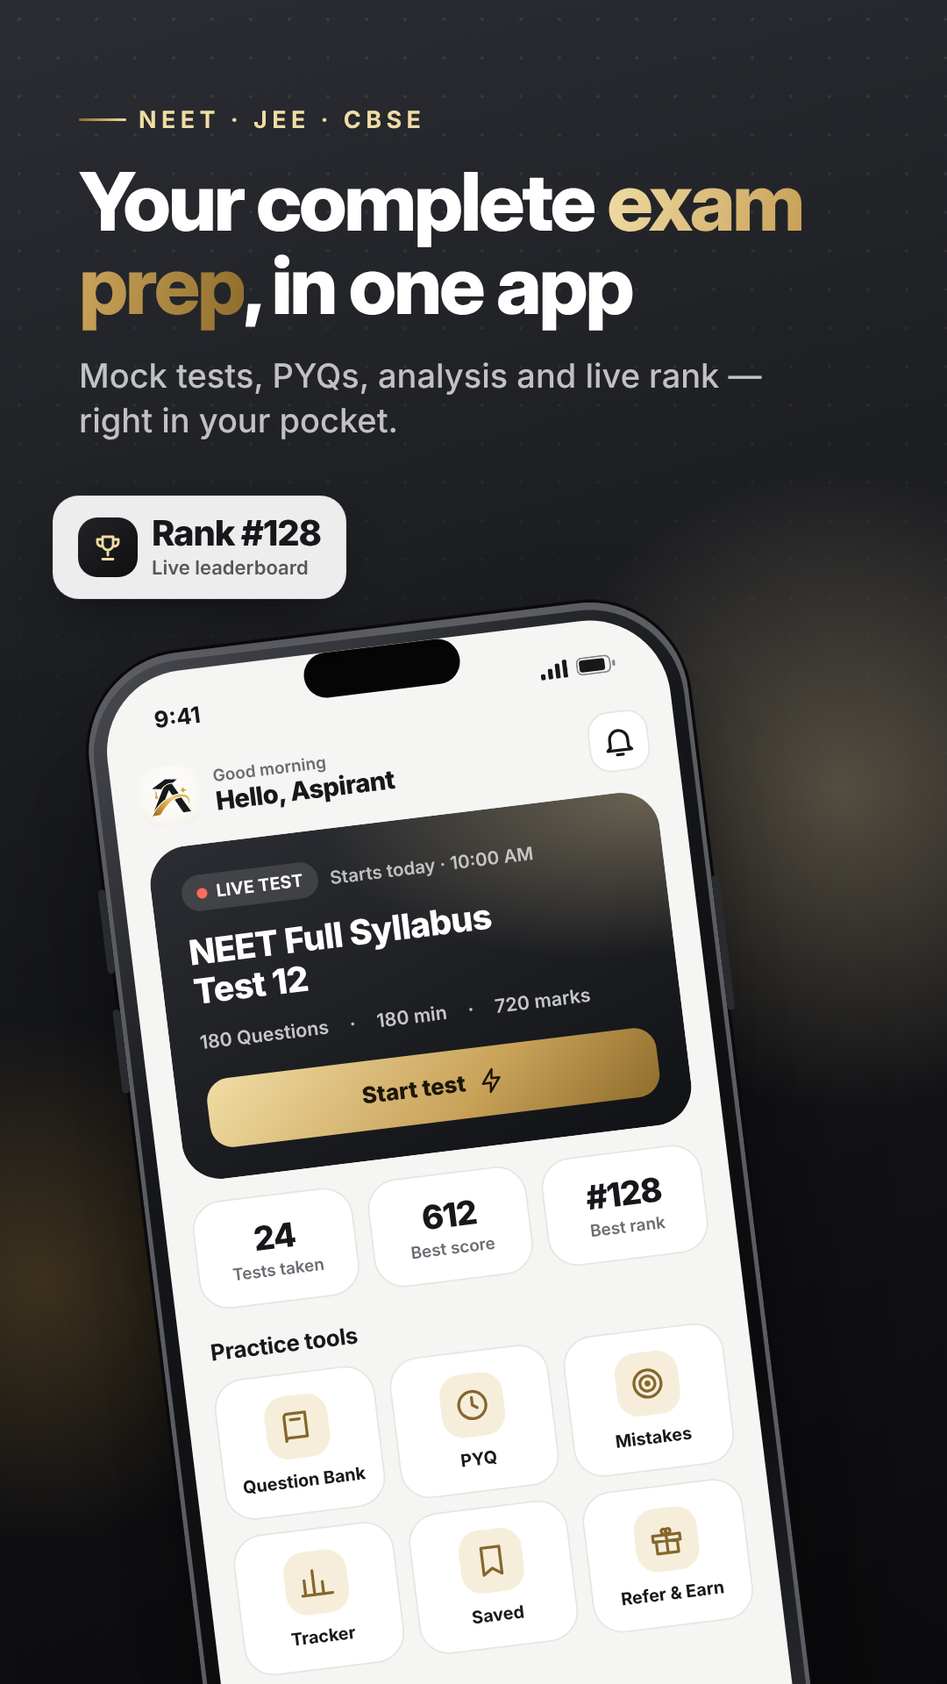
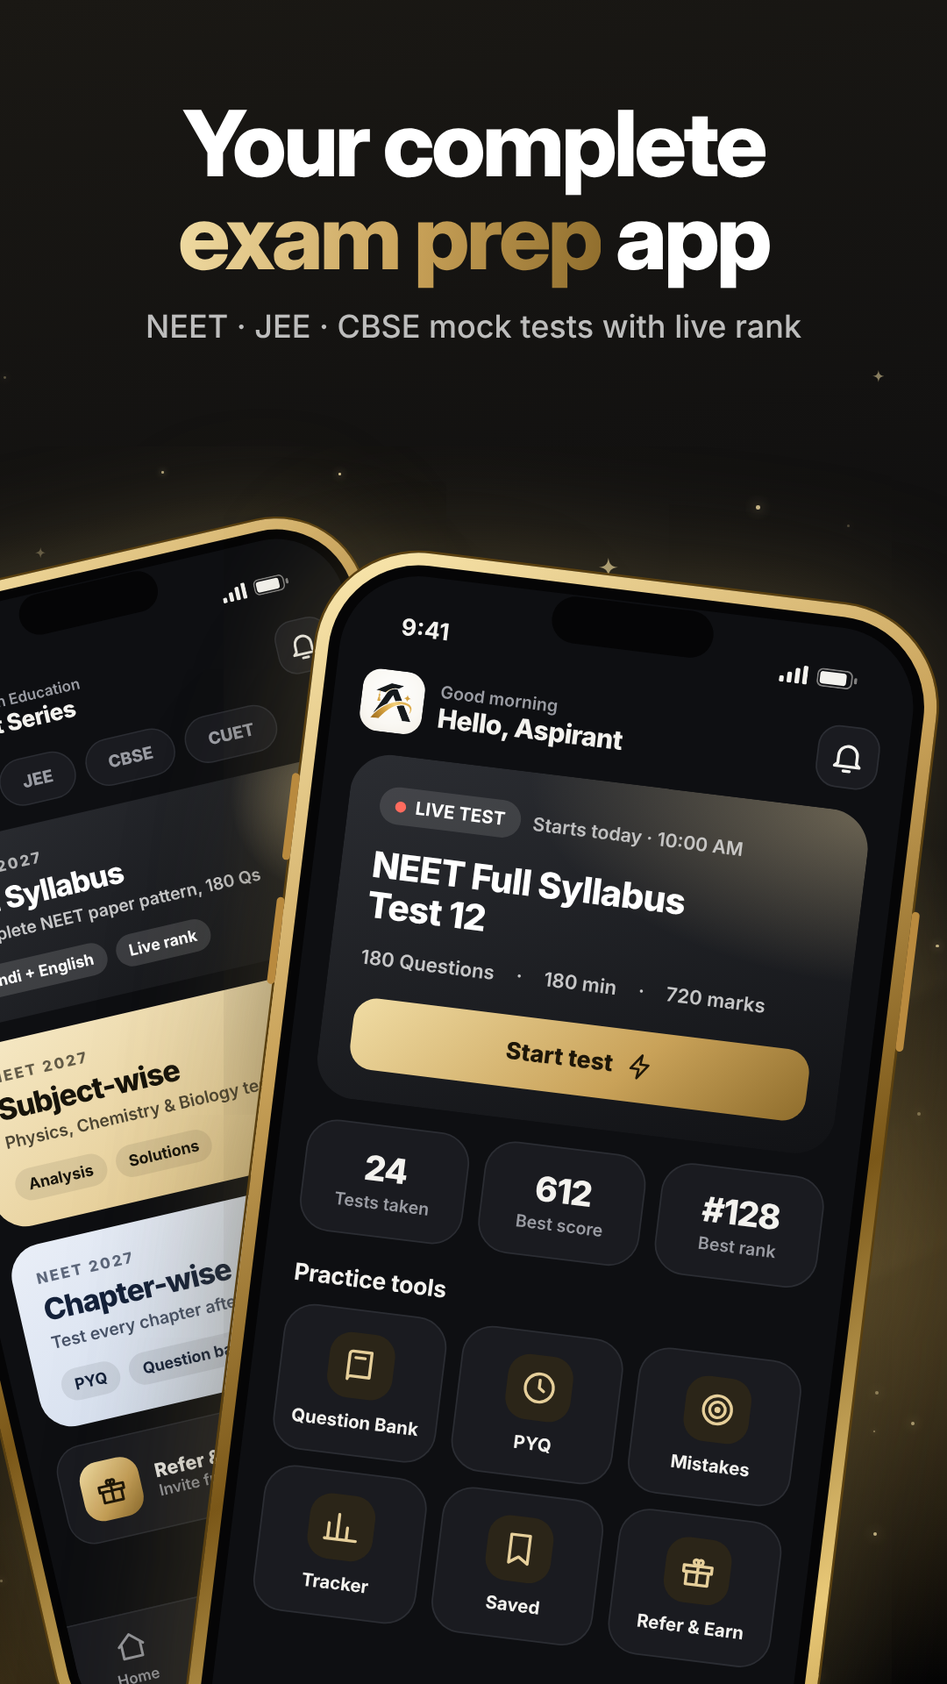
Play Store art v2: centered headline, gold-frame overlapping phones, dark UI
Claude-Session: https://claude.ai/code/session_01X2uHTRVsjurXKKG3aQSMPH

diff --git a/playstore/source.html b/playstore/source.html
@@ -38,8 +38,8 @@ h1 em{font-style:normal;background:linear-gradient(100deg,var(--gold1),var(--gol
 .sb{position:absolute;top:0;left:0;right:0;height:54px;display:flex;justify-content:space-between;align-items:center;padding:6px 34px 0;font-size:15px;font-weight:700;z-index:15;color:var(--tx)}
 .sb span:last-child{display:flex;gap:6px;align-items:center}
 /* app tokens */
-.app{--bg:#f5f5f3;--surf:#fff;--surf2:#efeeea;--tx:#17181b;--mut:#6a6c72;--line:#e6e5e0;--acc:#85672c;--accS:#f6eedb;--ok:#2d7a58;--okS:#dff1e7;--err:#b3433d;--errS:#f7e1df;--info:#3f72b8}
-.app.dk{--bg:#0e0f12;--surf:#1a1b20;--surf2:#24262b;--tx:#f3f2ee;--mut:#9a9ca3;--line:#2b2d33;--acc:#e6cf9a;--accS:#2b2518;--ok:#58c08f;--okS:#17301f;--err:#e5736b;--errS:#35191a;--info:#7aa7e6}
+.app{--bg:#f5f5f3;--surf:#fff;--surf2:#efeeea;--tx:#17181b;--mut:#6a6c72;--line:#e6e5e0;--acc:#85672c;--accS:#f6eedb;--ok:#2d7a58;--okS:#dff1e7;--err:#b3433d;--errS:#f7e1df;--info:#3f72b8;--prib:#17181b;--prit:#fff}
+.app.dk{--bg:#0e0f12;--surf:#1a1b20;--surf2:#24262b;--tx:#f3f2ee;--mut:#9a9ca3;--line:#2b2d33;--acc:#e6cf9a;--accS:#2b2518;--ok:#58c08f;--okS:#17301f;--err:#e5736b;--errS:#35191a;--info:#7aa7e6;--prib:linear-gradient(135deg,#f0dca4,#c9a259);--prit:#1d1608}
 .pad{padding:62px 18px 0}
 .row{display:flex;align-items:center}
 .gold{background:linear-gradient(135deg,var(--gold1),var(--gold2) 60%,var(--gold3));color:#1d1608}
@@ -62,6 +62,25 @@ h1 em{font-style:normal;background:linear-gradient(100deg,var(--gold1),var(--gol
 .chip.ltc{background:rgba(255,255,255,.92);color:#17181b;border:1px solid rgba(0,0,0,.06)}
 .chip.dkc .bub{background:linear-gradient(135deg,var(--gold1),var(--gold3));color:#1d1608}
 .chip.ltc .bub{background:linear-gradient(135deg,#232428,#0e0e10);color:var(--gold1)}
+
+.phone{background:linear-gradient(145deg,#fbe9b0,#c9a259 30%,#7a5718 55%,#e9c978 80%,#a47a2e)!important;padding:8px!important;
+ box-shadow:0 0 0 1.5px #5a4010,0 60px 110px -20px rgba(0,0,0,.65),0 0 90px -10px rgba(230,200,120,.35)!important}
+.phone:before,.phone:after{background:#b98a3e!important;box-shadow:none}
+.phone:after{box-shadow:0 80px 0 #b98a3e!important}
+.scr{border:7px solid #050506;border-radius:58px}
+.isl{top:16px!important}
+.sb{padding:12px 38px 0!important}
+.copy{left:50px;right:50px;top:110px;text-align:center}
+.copy h1{font-size:104px;line-height:1.02;margin-top:0}
+.copy .sub{margin:26px auto 0;font-size:36px;max-width:900px}
+.bg-dk{background:radial-gradient(900px 700px at 85% 75%,rgba(214,170,80,.40),transparent 70%),radial-gradient(700px 600px at 0% 100%,rgba(143,109,44,.35),transparent 70%),linear-gradient(170deg,#1a1814 0%,#0b0b0d 60%,#050506 100%);color:#fff}
+.bg-dk .sub{color:rgba(255,255,255,.72)}
+.bg-iv{background:radial-gradient(800px 650px at 15% 78%,rgba(230,200,130,.55),transparent 70%),linear-gradient(170deg,#fffdf8,#f3ede0);color:#17181b}
+.bg-iv:before{content:"";position:absolute;inset:0;background-image:linear-gradient(rgba(143,109,44,.10) 1.5px,transparent 1.5px),linear-gradient(90deg,rgba(143,109,44,.10) 1.5px,transparent 1.5px);background-size:120px 120px;mask-image:linear-gradient(transparent 28%,#000 75%);-webkit-mask-image:linear-gradient(transparent 28%,#000 75%)}
+.bg-iv .sub{color:#5e6066}
+.bg-iv h1 em{background:linear-gradient(100deg,#b08945,#85672c 60%,#5e4414);-webkit-background-clip:text;background-clip:text;color:transparent}
+.streak{position:absolute;height:150px;width:1700px;left:-300px;transform-origin:center;pointer-events:none;background:linear-gradient(90deg,transparent,rgba(240,210,130,.0) 15%,rgba(240,210,130,.34) 50%,rgba(240,210,130,0) 85%,transparent);filter:blur(6px)}
+.spk{position:absolute;pointer-events:none}
 </style></head><body>
 <div id="root"></div>
 <script>
@@ -109,22 +128,22 @@ S.home=(dk)=>`<div class="app ${dk?'dk':''} scr">${status()}<div class="pad">
  </div>
  </div>${nav(0)}</div>`;
 
-S.exam=()=>`<div class="app scr"><div style="--tx:#fff;color:#fff;position:relative;z-index:16">${status()}</div>
+S.exam=(dk)=>`<div class="app ${dk?'dk':''} scr"><div style="--tx:#fff;color:#fff;position:relative;z-index:16">${status()}</div>
  <div style="position:absolute;top:0;left:0;right:0;height:128px;background:linear-gradient(160deg,#2b2d32,#111215);color:#fff;padding:62px 18px 0">
   <div class="row" style="justify-content:space-between"><div><div style="font-size:11px;opacity:.6;font-weight:600">NEET Full Syllabus</div><div style="font-size:16px;font-weight:800">Test 12</div></div>
   <div class="row gold" style="gap:7px;padding:8px 13px;border-radius:13px;font-weight:800;font-size:15px;font-variant-numeric:tabular-nums">${ic('clock','width:17px;height:17px')}02:14:36</div></div></div>
  <div style="position:absolute;top:128px;left:0;right:0;padding:14px 18px">
-  <div class="row" style="gap:8px">${['Physics','Chemistry','Biology'].map((x,i)=>`<div style="flex:1;text-align:center;padding:10px 0;border-radius:13px;font-size:13px;font-weight:700;${i==2?'background:var(--ink);color:#fff;background:#17181b':'background:var(--surf);border:1px solid var(--line);color:var(--mut)'}">${x}</div>`).join('')}</div>
+  <div class="row" style="gap:8px">${['Physics','Chemistry','Biology'].map((x,i)=>`<div style="flex:1;text-align:center;padding:10px 0;border-radius:13px;font-size:13px;font-weight:700;${i==2?'background:var(--prib);color:var(--prit)':'background:var(--surf);border:1px solid var(--line);color:var(--mut)'}">${x}</div>`).join('')}</div>
   <div class="row" style="justify-content:space-between;margin:18px 2px 10px"><span style="font-weight:800;font-size:15px">Question 87 <span class="mut" style="font-weight:600">of 180</span></span><span class="row" style="gap:6px"><span class="pill" style="background:var(--okS);color:var(--ok)">+4</span><span class="pill" style="background:var(--errS);color:var(--err)">−1</span></span></div>
   <div class="card" style="padding:18px"><div style="font-size:16.5px;line-height:1.5;font-weight:600;letter-spacing:-.01em">Which cell organelle is the main site of aerobic respiration in a eukaryotic cell?</div></div>
   ${[['A','Ribosome'],['B','Mitochondria'],['C','Golgi apparatus'],['D','Lysosome']].map((x,i)=>`<div class="row" style="gap:12px;margin-top:10px;padding:14px;border-radius:17px;background:${i==1?'var(--accS)':'var(--surf)'};border:1.5px solid ${i==1?'#c9a259':'var(--line)'}"><span style="width:30px;height:30px;border-radius:50%;display:grid;place-items:center;font-size:13px;font-weight:800;${i==1?'background:linear-gradient(135deg,#f0dca4,#b08945);color:#1d1608':'background:var(--surf2);color:var(--mut)'}">${x[0]}</span><span style="font-size:15px;font-weight:${i==1?800:600}">${x[1]}</span>${i==1?`<span style="margin-left:auto;color:var(--acc)">${ic('check')}</span>`:''}</div>`).join('')}
-  <div class="row" style="gap:10px;margin-top:16px"><div class="card" style="flex:1;height:46px;display:grid;place-items:center;font-size:13px;font-weight:700;border-radius:15px">Mark for review</div><div style="flex:1;height:46px;border-radius:15px;background:#17181b;color:#fff;display:grid;place-items:center;font-size:13px;font-weight:800">Save & Next</div></div>
+  <div class="row" style="gap:10px;margin-top:16px"><div class="card" style="flex:1;height:46px;display:grid;place-items:center;font-size:13px;font-weight:700;border-radius:15px">Mark for review</div><div style="flex:1;height:46px;border-radius:15px;background:var(--prib);color:var(--prit);display:grid;place-items:center;font-size:13px;font-weight:800">Save & Next</div></div>
   <div class="h2" style="margin:18px 2px 10px;font-size:13px">Question palette</div>
   <div style="display:grid;grid-template-columns:repeat(9,1fr);gap:7px">${Array.from({length:27},(_,i)=>{const n=i+79;const st=n<87?(n%4==0?'r':'a'):(n==87?'c':'n');const m={a:'background:#2d7a58;color:#fff',r:'background:#7b5bb8;color:#fff',c:'background:linear-gradient(135deg,#f0dca4,#b08945);color:#1d1608',n:'background:var(--surf);border:1px solid var(--line);color:var(--mut)'}[st];return `<div style="aspect-ratio:1;border-radius:9px;display:grid;place-items:center;font-size:11px;font-weight:700;${m}">${n}</div>`}).join('')}</div>
  </div></div>`;
 
 const ring=(pct,size,label,sub,col='#c9a259')=>{const r=size/2-9,c=2*Math.PI*r;return `<div style="position:relative;width:${size}px;height:${size}px"><svg width="${size}" height="${size}" style="transform:rotate(-90deg)"><circle cx="${size/2}" cy="${size/2}" r="${r}" fill="none" stroke="rgba(255,255,255,.14)" stroke-width="12"/><circle cx="${size/2}" cy="${size/2}" r="${r}" fill="none" stroke="url(#gg)" stroke-width="12" stroke-linecap="round" stroke-dasharray="${c*pct} ${c}"/></svg><div style="position:absolute;inset:0;display:flex;flex-direction:column;align-items:center;justify-content:center"><div style="font-size:${size/4.2}px;font-weight:800;letter-spacing:-.04em">${label}</div><div style="font-size:11px;opacity:.65;font-weight:600">${sub}</div></div></div>`};
-S.result=()=>`<div class="app scr">${status()}<div class="pad">
+S.result=(dk)=>`<div class="app ${dk?'dk':''} scr">${status()}<div class="pad">
  <svg width="0" height="0"><defs><linearGradient id="gg" x1="0" y1="0" x2="1" y2="1"><stop offset="0" stop-color="#f0dca4"/><stop offset="1" stop-color="#b08945"/></linearGradient></defs></svg>
  ${bar(['NEET Full Syllabus · Test 12','Your Result'],`<div class="pill" style="background:var(--okS);color:var(--ok)">Submitted</div>`)}
  <div style="border-radius:28px;padding:22px 20px;color:#fff;background:radial-gradient(110% 80% at 0% 0%,rgba(230,207,154,.3),transparent 60%),linear-gradient(160deg,#2b2d32,#111215)">
@@ -140,8 +159,8 @@ S.result=()=>`<div class="app scr">${status()}<div class="pad">
  <div class="row" style="gap:10px;margin-top:12px"><div class="gold" style="flex:1;height:46px;border-radius:15px;display:grid;place-items:center;font-weight:800;font-size:13.5px">View solutions</div><div class="card" style="flex:1;height:46px;display:grid;place-items:center;font-weight:800;font-size:13.5px;border-radius:15px">Leaderboard</div></div>
  </div>${nav(1)}</div>`;
 
-S.analysis=()=>{const pts=[412,455,438,502,531,498,566,612];const mx=640,mn=380,W=330,H=120;const xy=pts.map((v,i)=>[i*(W/7)+10,H-((v-mn)/(mx-mn))*H+8]);const d=xy.map((p,i)=>(i?'L':'M')+p[0].toFixed(1)+' '+p[1].toFixed(1)).join(' ');
- return `<div class="app scr">${status()}<div class="pad">
+S.analysis=(dk)=>{const pts=[412,455,438,502,531,498,566,612];const mx=640,mn=380,W=330,H=120;const xy=pts.map((v,i)=>[i*(W/7)+10,H-((v-mn)/(mx-mn))*H+8]);const d=xy.map((p,i)=>(i?'L':'M')+p[0].toFixed(1)+' '+p[1].toFixed(1)).join(' ');
+ return `<div class="app ${dk?'dk':''} scr">${status()}<div class="pad">
  ${bar(['Performance','Analysis'])}
  <div class="card" style="padding:16px"><div class="row" style="justify-content:space-between"><div><div style="font-size:12px;color:var(--mut);font-weight:600">Score trend · last 8 tests</div><div style="font-size:30px;font-weight:800;letter-spacing:-.04em;margin-top:2px">612 <span class="pill" style="background:var(--okS);color:var(--ok);vertical-align:middle">▲ +200</span></div></div></div>
  <svg viewBox="0 0 350 150" style="width:100%;margin-top:6px"><defs><linearGradient id="ar" x1="0" y1="0" x2="0" y2="1"><stop offset="0" stop-color="#c9a259" stop-opacity=".35"/><stop offset="1" stop-color="#c9a259" stop-opacity="0"/></linearGradient><linearGradient id="ln" x1="0" x2="1"><stop offset="0" stop-color="#b08945"/><stop offset="1" stop-color="#e6cf9a"/></linearGradient></defs>
@@ -153,44 +172,46 @@ S.analysis=()=>{const pts=[412,455,438,502,531,498,566,612];const mx=640,mn=380,
  <div class="card row" style="padding:14px;gap:12px;background:var(--accS);border-color:transparent"><div style="width:42px;height:42px;border-radius:14px;display:grid;place-items:center;background:#17181b;color:#f0dca4">${ic('target')}</div><div><div style="font-size:14px;font-weight:800">14 mistakes to revisit</div><div style="font-size:11.5px;color:var(--mut);font-weight:600">Redo them to lock in marks</div></div></div>
  </div>${nav(3)}</div>`};
 
-S.pyq=()=>`<div class="app scr">${status()}<div class="pad">
+S.pyq=(dk)=>`<div class="app ${dk?'dk':''} scr">${status()}<div class="pad">
  ${bar(['Practice','PYQ & Question Bank'])}
  <div class="card row" style="gap:10px;padding:12px 14px;border-radius:16px"><span class="mut">${ic('search')}</span><span class="mut" style="font-size:14px;font-weight:600">Search chapter or topic</span></div>
- <div class="row" style="gap:8px;margin:14px 0 4px">${['All','2024','2023','2022','2021'].map((x,i)=>`<div style="padding:9px 15px;border-radius:99px;font-size:12.5px;font-weight:700;${i==1?'background:#17181b;color:#fff':'background:var(--surf);border:1px solid var(--line);color:var(--mut)'}">${x}</div>`).join('')}</div>
+ <div class="row" style="gap:8px;margin:14px 0 4px">${['All','2024','2023','2022','2021'].map((x,i)=>`<div style="padding:9px 15px;border-radius:99px;font-size:12.5px;font-weight:700;${i==1?'background:var(--prib);color:var(--prit)':'background:var(--surf);border:1px solid var(--line);color:var(--mut)'}">${x}</div>`).join('')}</div>
  <div class="h2" style="margin:14px 2px 10px">Chapter-wise practice</div>
  ${[['Cell: The Unit of Life','Biology','flask','#1f9a72',42,50],['Laws of Motion','Physics','bolt','#3f72b8',31,45],['Chemical Kinetics','Chemistry','target','#c4692e',27,40],['Human Physiology','Biology','flask','#1f9a72',18,60],['Current Electricity','Physics','bolt','#3f72b8',12,38]].map(x=>`<div class="card row" style="padding:13px 14px;margin-bottom:9px;gap:13px"><div style="width:46px;height:46px;border-radius:15px;display:grid;place-items:center;background:${x[3]}22;color:${x[3]};flex:none">${ic(x[2])}</div><div style="flex:1;min-width:0"><div style="font-size:14px;font-weight:700">${x[0]}</div><div style="font-size:11.5px;color:var(--mut);font-weight:600;margin-top:2px">${x[1]} · ${x[4]}/${x[5]} solved</div><div style="height:6px;border-radius:6px;background:var(--surf2);margin-top:8px"><div style="height:100%;width:${x[4]/x[5]*100}%;border-radius:6px;background:${x[3]}"></div></div></div></div>`).join('')}
  </div>${nav(2)}</div>`;
 
-S.store=()=>`<div class="app scr">${status()}<div class="pad">
+S.store=(dk)=>`<div class="app ${dk?'dk':''} scr">${status()}<div class="pad">
  ${bar(['Aspiron Education','Test Series'])}
- <div class="row" style="gap:8px">${['NEET','JEE','CBSE','CUET'].map((x,i)=>`<div style="padding:9px 16px;border-radius:99px;font-size:12.5px;font-weight:800;${i==0?'background:#17181b;color:#fff':'background:var(--surf);border:1px solid var(--line);color:var(--mut)'}">${x}</div>`).join('')}</div>
+ <div class="row" style="gap:8px">${['NEET','JEE','CBSE','CUET'].map((x,i)=>`<div style="padding:9px 16px;border-radius:99px;font-size:12.5px;font-weight:800;${i==0?'background:var(--prib);color:var(--prit)':'background:var(--surf);border:1px solid var(--line);color:var(--mut)'}">${x}</div>`).join('')}</div>
  ${[['Full Syllabus','Complete NEET paper pattern, 180 Qs',['Hindi + English','Live rank'],'linear-gradient(150deg,#2b2d32,#111215)','#fff'],['Subject-wise','Physics, Chemistry & Biology tests',['Analysis','Solutions'],'linear-gradient(150deg,#f6e9c6,#dcbd7a)','#17140b'],['Chapter-wise','Test every chapter after you finish it',['PYQ','Question bank'],'linear-gradient(150deg,#e9eef7,#c9d6ea)','#14213a']].map((x,i)=>`<div style="margin-top:14px;border-radius:24px;padding:18px;background:${x[3]};color:${x[4]};position:relative;overflow:hidden">${i==0?'<div style="position:absolute;right:-40px;top:-40px;width:140px;height:140px;border-radius:50%;background:radial-gradient(circle,rgba(230,207,154,.5),transparent 70%)"></div>':''}<div style="font-size:11px;font-weight:800;letter-spacing:.14em;opacity:.65">NEET 2027</div><div style="font-size:22px;font-weight:800;letter-spacing:-.03em;margin-top:4px">${x[0]}</div><div style="font-size:12.5px;font-weight:600;opacity:.75;margin-top:4px">${x[1]}</div><div class="row" style="gap:7px;margin-top:14px">${x[2].map(t=>`<span class="pill" style="background:${i==0?'rgba(255,255,255,.14)':'rgba(0,0,0,.08)'}">${t}</span>`).join('')}<span style="margin-left:auto;font-size:13px;font-weight:800">Explore →</span></div></div>`).join('')}
  <div class="card row" style="margin-top:14px;padding:14px;gap:12px"><div class="gold" style="width:44px;height:44px;border-radius:14px;display:grid;place-items:center">${ic('gift')}</div><div><div style="font-size:14px;font-weight:800">Refer & Earn</div><div style="font-size:11.5px;color:var(--mut);font-weight:600">Invite friends, earn rewards</div></div></div>
  </div>${nav(1)}</div>`;
 
-/* ---------- slides ---------- */
+/* ---------- slides v2 ---------- */
+let seed=7;const rnd=()=>{seed=(seed*16807)%2147483647;return seed/2147483647};
+const sparkles=(n,dark)=>{let h='';for(let i=0;i<n;i++){const x=rnd()*1080,y=420+rnd()*1500,r=1.5+rnd()*3.5,o=.25+rnd()*.7;
+ h+= rnd()<.15?`<svg class="spk" style="left:${x}px;top:${y}px;opacity:${o}" width="${r*7}" height="${r*7}" viewBox="0 0 20 20"><path d="M10 0C11 7 13 9 20 10 13 11 11 13 10 20 9 13 7 11 0 10 7 9 9 7 10 0Z" fill="#f0dca4"/></svg>`:`<div class="spk" style="left:${x}px;top:${y}px;width:${r}px;height:${r}px;border-radius:50%;background:#f0dca4;opacity:${o};box-shadow:0 0 ${r*3}px #f0dca4"></div>`}return h};
 const ph=(scr,x,y,s,r,z=1)=>`<div class="phone" style="left:${x}px;top:${y}px;transform:translate(-50%,-50%) scale(${s}) rotate(${r}deg);z-index:${z}"><div class="isl"></div>${scr}</div>`;
-const copy=(k,h,s)=>`<div class="copy"><div class="kick"><i></i>${k}</div><h1>${h}</h1><div class="sub">${s}</div></div>`;
-const chip=(cls,st,ico,b,sm)=>`<div class="chip ${cls}" style="${st}"><div class="bub">${ic(ico)}</div><div><b>${b}</b><small>${sm}</small></div></div>`;
-const bgGlow=(a,b)=>`<div class="glow" style="width:760px;height:760px;right:-260px;top:520px;background:radial-gradient(circle,${a},transparent 68%)"></div><div class="glow" style="width:620px;height:620px;left:-260px;top:1150px;background:radial-gradient(circle,${b},transparent 68%)"></div><div class="dots"></div>`;
-
+const copy=(h,s)=>`<div class="copy"><h1>${h}</h1><div class="sub">${s}</div></div>`;
+const dkBg=()=>`<div class="streak" style="top:1200px;transform:rotate(-24deg)"></div><div class="streak" style="top:1500px;transform:rotate(-24deg);opacity:.6"></div>${sparkles(70)}`;
+// pair: front phone right (side=1) or left (side=-1)
+const pair=(front,back,side)=>{const fx=540+side*95,bx=540-side*300;
+ return ph(back,bx,1290,1.55,side*-1*13+0,1)+ph(front,fx,1420,1.78,side*7,2)};
 const slides=[
- ()=>`<div class="slide t-ink">${bgGlow('rgba(230,207,154,.30)','rgba(143,109,44,.35)')}${copy('NEET · JEE · CBSE','Your complete <em>exam prep</em>, in one app','Mock tests, PYQs, analysis and live rank — right in your pocket.')}${ph(S.home(),520,1450,1.72,-7)}${chip('ltc','left:60px;top:565px','trophy','Rank #128','Live leaderboard')}</div>`,
- ()=>`<div class="slide t-ivory">${bgGlow('rgba(230,207,154,.55)','rgba(201,162,89,.28)')}${copy('Real CBT Experience','Practice on the <em>real exam</em> interface','Timer, question palette and marking — exactly like exam day.')}${ph(S.exam(),560,1450,1.72,6)}${chip('dkc','right:60px;top:600px','clock','02:14:36','Live exam timer')}</div>`,
- ()=>`<div class="slide t-night">${bgGlow('rgba(230,207,154,.26)','rgba(63,114,184,.45)')}${copy('Instant Results','Score, rank &amp; <em>percentile</em> in seconds','Know where you stand the moment you submit your test.')}${ph(S.result(),520,1450,1.72,-6)}${chip('ltc','right:60px;top:575px','bolt','Top 3%','Among all students')}</div>`,
- ()=>`<div class="slide t-champ"><div class="glow" style="width:700px;height:700px;right:-240px;top:500px;background:radial-gradient(circle,rgba(255,255,255,.55),transparent 68%)"></div><div class="dots" style="color:#6b4f17"></div>${copy('Smart Analysis','Find weak chapters. <em>Fix them fast.</em>','Chapter-wise accuracy, score trends and a mistakes notebook.')}${ph(S.analysis(),560,1450,1.72,7)}${chip('dkc','left:60px;top:590px','chart','+200','Marks in 8 tests')}</div>`,
- ()=>`<div class="slide t-ink">${bgGlow('rgba(230,207,154,.30)','rgba(143,109,44,.35)')}${copy('PYQ &amp; Question Bank','Practise every chapter, <em>year by year</em>','Previous year questions and chapter-wise practice for NEET &amp; JEE.')}${ph(S.pyq(),520,1450,1.72,-7)}${chip('ltc','right:60px;top:565px','book','Chapter-wise','PYQ · Question bank')}</div>`,
- ()=>`<div class="slide t-ivory">${bgGlow('rgba(230,207,154,.55)','rgba(201,162,89,.28)')}${copy('Made for Every Aspirant','Hindi + English.<br><em>Light + Dark.</em>','Test series for every goal, in the language and theme you prefer.')}${ph(S.home(true),830,1470,1.55,8,1)}${ph(S.store(),370,1420,1.62,-6,2)}</div>`
+ ()=>`<div class="slide bg-dk">${dkBg()}${copy('Your complete<br><em>exam prep</em> app','NEET · JEE · CBSE mock tests with live rank')}${pair(S.home(true),S.store(true),1)}</div>`,
+ ()=>`<div class="slide bg-iv">${copy('Practice on the<br><em>real exam</em> interface','Timer, palette and marking — just like exam day')}${pair(S.exam(true),S.pyq(true),-1)}</div>`,
+ ()=>`<div class="slide bg-dk">${dkBg()}${copy('Instant score,<br><em>live rank</em>','Result and percentile the moment you submit')}${pair(S.result(true),S.analysis(true),1)}</div>`,
+ ()=>`<div class="slide bg-iv">${copy('Find weak chapters.<br><em>Fix them fast.</em>','Chapter-wise analysis and a mistakes notebook')}${pair(S.analysis(true),S.result(true),-1)}</div>`,
+ ()=>`<div class="slide bg-dk">${dkBg()}${copy('PYQ &amp; Question Bank<br><em>year by year</em>','Chapter-wise practice for NEET &amp; JEE')}${pair(S.pyq(true),S.exam(true),1)}</div>`,
+ ()=>`<div class="slide bg-iv">${copy('Hindi + English.<br><em>Light + Dark.</em>','Test series for every goal, your way')}${pair(S.home(true),S.store(false),-1)}</div>`
 ];
-
-const fg=()=>`<div class="fg t-ink"><div class="glow" style="width:520px;height:520px;right:-120px;top:-100px;background:radial-gradient(circle,rgba(230,207,154,.32),transparent 68%)"></div><div class="glow" style="width:420px;height:420px;left:-140px;bottom:-200px;background:radial-gradient(circle,rgba(143,109,44,.4),transparent 68%)"></div><div class="dots"></div>
+const fg=()=>`<div class="fg bg-dk" style="position:relative"><div class="streak" style="top:300px;left:-300px;transform:rotate(-22deg)"></div>
  <div style="position:absolute;left:64px;top:92px;width:520px">
   <div class="row" style="gap:16px"><img src="logo.png" style="width:78px;height:78px;border-radius:22px"><div><div style="font-family:'Inter Display';font-weight:800;font-size:40px;letter-spacing:-.03em;line-height:1">Aspiron</div><div style="font-size:15px;font-weight:700;letter-spacing:.34em;opacity:.6;margin-top:6px">EDUCATION</div></div></div>
   <div style="font-family:'Inter Display';font-weight:800;font-size:54px;line-height:1.04;letter-spacing:-.035em;margin-top:34px">NEET &amp; JEE<br><span style="background:linear-gradient(100deg,#f0dca4,#c9a259 55%,#8f6d2c);-webkit-background-clip:text;background-clip:text;color:transparent">mock tests</span><br>with live rank</div>
-  <div style="font-size:20px;font-weight:500;opacity:.7;margin-top:18px;line-height:1.4">CBT tests · PYQs · Analysis · Hindi + English</div></div>
- <div class="phone" style="left:715px;top:300px;transform:translate(-50%,-50%) scale(.82) rotate(8deg)"><div class="isl"></div>${S.result()}</div>
- <div class="phone" style="left:960px;top:400px;transform:translate(-50%,-50%) scale(.68) rotate(12deg);z-index:0;opacity:.95"><div class="isl"></div>${S.home(true)}</div></div>`;
-
+  <div style="font-size:20px;font-weight:500;opacity:.7;margin-top:18px">CBT tests · PYQs · Analysis · Hindi + English</div></div>
+ <div class="phone" style="left:930px;top:400px;transform:translate(-50%,-50%) scale(.7) rotate(12deg);z-index:0"><div class="isl"></div>${S.home(true)}</div>
+ <div class="phone" style="left:715px;top:300px;transform:translate(-50%,-50%) scale(.82) rotate(8deg);z-index:2"><div class="isl"></div>${S.result(true)}</div></div>`;
 const q=new URLSearchParams(location.search);const n=q.get('s');
 document.getElementById('root').innerHTML = n==='fg'?fg():slides[+n-1]();
 </script></body></html>
